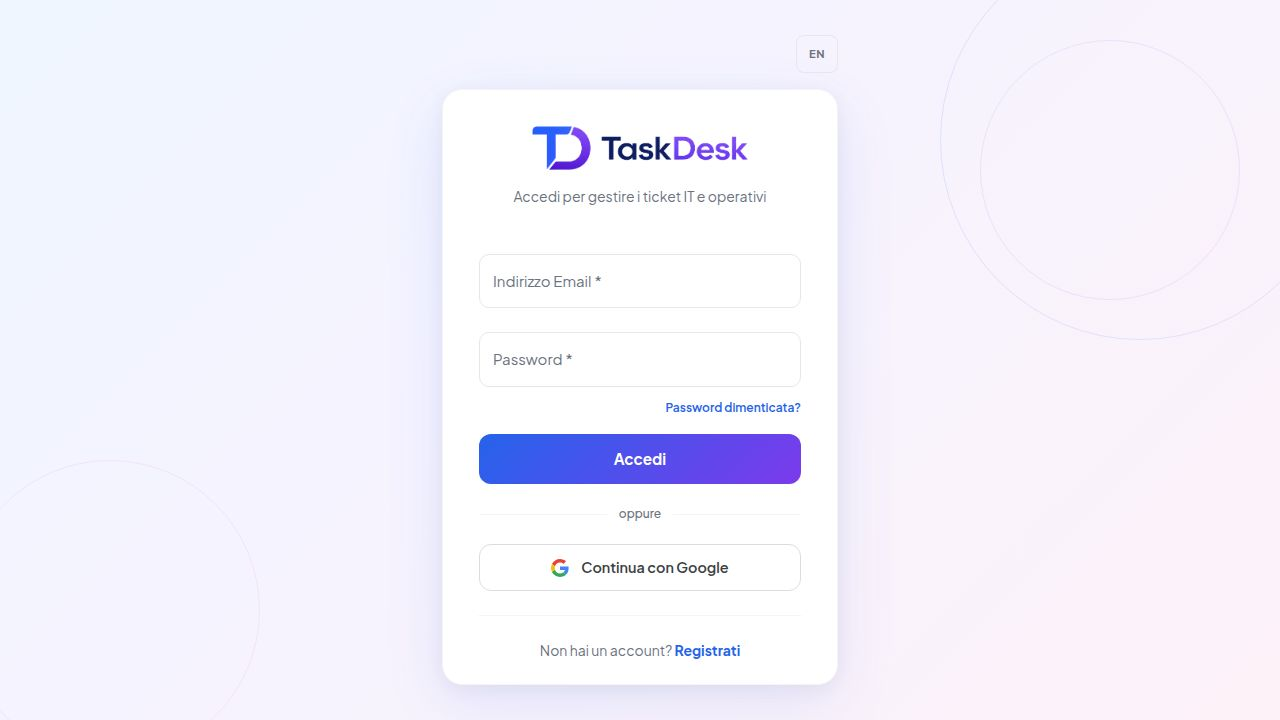
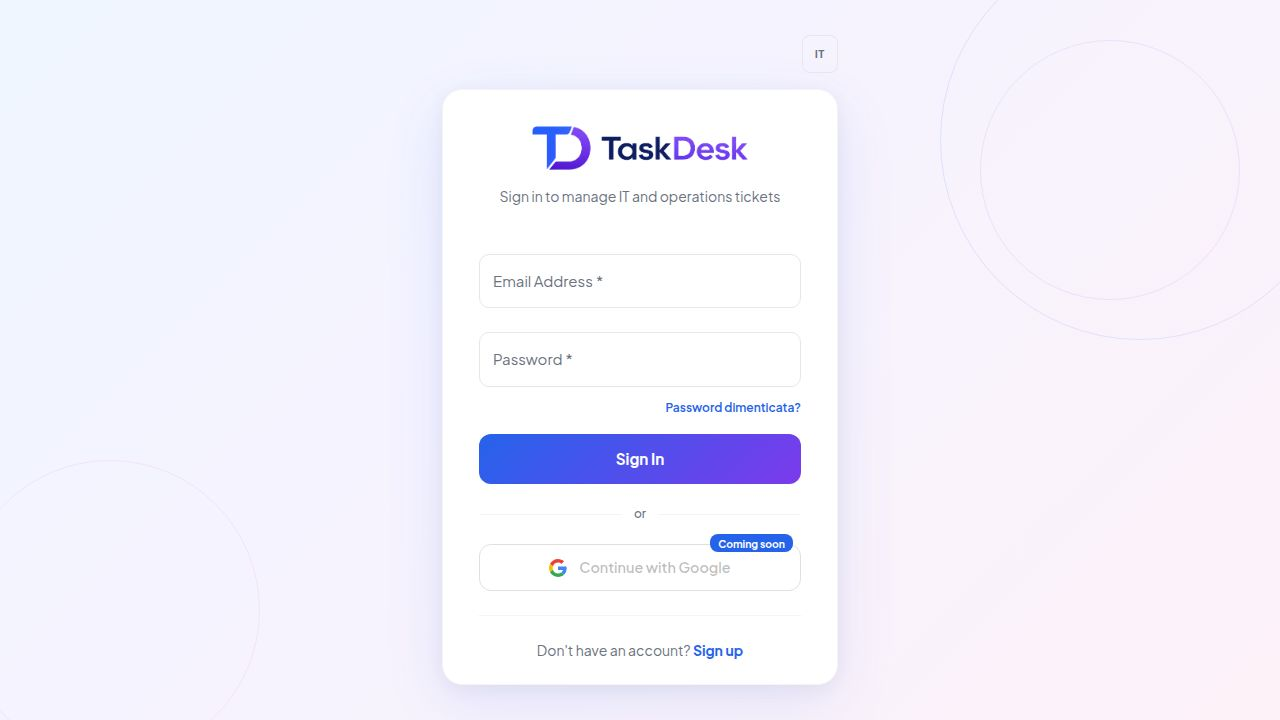
Translate UI elements and backend defaults to English
Updates translations for login, user management, ticket creation, and notifications. Modifies backend default categories, locations, and groups to English.

Replit-Commit-Author: Agent
Replit-Commit-Session-Id: 22994af6-471e-456a-80e1-41eef719cffe
Replit-Commit-Checkpoint-Type: full_checkpoint
Replit-Commit-Event-Id: 9d851790-6e3d-42e8-b1ae-4833c69661b8
Replit-Commit-Screenshot-Url: https://storage.googleapis.com/screenshot-production-us-central1/4a1856fa-6903-4237-b73c-7ebbcebc75f6/22994af6-471e-456a-80e1-41eef719cffe/jd4iU5t

diff --git a/artifacts/ticketing/src/i18n/translations.ts b/artifacts/ticketing/src/i18n/translations.ts
@@ -30,6 +30,10 @@ const it = {
     oauthDisabled: "Il tuo account è disabilitato. Contatta l'amministratore.",
     oauthServerError: 'Errore del server. Riprova più tardi.',
     oauthGenericError: "Errore durante l'autenticazione Google.",
+    or: 'oppure',
+    continueWithGoogle: 'Continua con Google',
+    registerWithGoogle: 'Registrati con Google',
+    comingSoon: 'Prossimamente',
   },
   nav: {
     dashboard: 'Dashboard',
@@ -143,6 +147,8 @@ const it = {
     attach: 'Allega file',
     mentionHint: 'menziona un collega',
     ticketHint: 'collega un ticket',
+    mentionAtName: '@Nome',
+    mentionAtGroup: '@Gruppo',
     mentionDropdownTitle: '@ Menziona utente o gruppo',
     groupLabel: 'Gruppo',
     ticketDropdownTitle: '# Riferimento ticket',
@@ -163,6 +169,9 @@ const it = {
     resourcePlaceholder: 'Es: stampante reception, PC banco cassa...',
     priorityField: 'Priorità',
     assignField: 'Assegna a',
+    assignUser: 'Utente',
+    assignGroup: 'Gruppo',
+    noLocation: '— Nessuna sede —',
     unassigned: 'Non assegnato',
     cancel: 'Annulla',
     create: 'Crea Ticket',
@@ -283,6 +292,10 @@ const it = {
     upgradeCta: 'Esegui upgrade',
     seatsAlmostFull: 'Quasi al limite',
     seatsFull: 'Posti esauriti',
+    activeUser: 'utente attivo',
+    activeUsers: 'utenti attivi',
+    totalUsers: 'totali',
+    seatsAvailableLabel: 'disponibili',
     deleteError: "Errore durante l'eliminazione",
   },
   settings: {
@@ -303,6 +316,8 @@ const it = {
     passwordHint: 'Minimo 6 caratteri',
     passwordMismatch: 'Le password non coincidono',
     changePasswordBtn: 'Cambia password',
+    clickIconToChangePhoto: 'Clicca sull\'icona per cambiare la foto',
+    removePhoto: 'Rimuovi foto',
     manageLocations: 'Gestione Sedi',
     locationsNote: 'Le sedi qui definite saranno disponibili come opzioni nel form di apertura ticket.',
     manageCategories: 'Gestione Categorie',
@@ -438,6 +453,10 @@ const en: typeof it = {
     oauthDisabled: 'Your account is disabled. Contact your administrator.',
     oauthServerError: 'Server error. Please try again later.',
     oauthGenericError: 'Google authentication error.',
+    or: 'or',
+    continueWithGoogle: 'Continue with Google',
+    registerWithGoogle: 'Sign up with Google',
+    comingSoon: 'Coming soon',
   },
   nav: {
     dashboard: 'Dashboard',
@@ -551,6 +570,8 @@ const en: typeof it = {
     attach: 'Attach file',
     mentionHint: 'mention a colleague',
     ticketHint: 'link a ticket',
+    mentionAtName: '@Name',
+    mentionAtGroup: '@Group',
     mentionDropdownTitle: '@ Mention user or group',
     groupLabel: 'Group',
     ticketDropdownTitle: '# Ticket reference',
@@ -571,6 +592,9 @@ const en: typeof it = {
     resourcePlaceholder: 'E.g.: reception printer, cash register PC...',
     priorityField: 'Priority',
     assignField: 'Assign to',
+    assignUser: 'User',
+    assignGroup: 'Group',
+    noLocation: '— No location —',
     unassigned: 'Unassigned',
     cancel: 'Cancel',
     create: 'Create Ticket',
@@ -687,6 +711,10 @@ const en: typeof it = {
     errorSaving: 'An error occurred while saving. Please try again.',
     errorSeatLimit: 'You have reached your plan\'s seat limit. Upgrade to add more users.',
     seatsUsedLabel: 'seats used',
+    activeUser: 'active user',
+    activeUsers: 'active users',
+    totalUsers: 'total',
+    seatsAvailableLabel: 'available',
     seatsUnlimited: 'Unlimited seats',
     upgradeCta: 'Upgrade plan',
     seatsAlmostFull: 'Almost full',
@@ -711,6 +739,8 @@ const en: typeof it = {
     passwordHint: 'At least 6 characters',
     passwordMismatch: 'Passwords do not match',
     changePasswordBtn: 'Change password',
+    clickIconToChangePhoto: 'Click the icon to change the photo',
+    removePhoto: 'Remove photo',
     manageLocations: 'Manage Locations',
     locationsNote: 'Locations defined here will be available as options in the ticket creation form.',
     manageCategories: 'Manage Categories',

diff --git a/artifacts/ticketing/src/pages/Login.tsx b/artifacts/ticketing/src/pages/Login.tsx
@@ -192,20 +192,20 @@ export default function Login() {
                 </Button>
                 <Box sx={{ display: 'flex', alignItems: 'center', gap: 1.5, my: 2.5 }}>
                   <Box sx={{ flex: 1, height: '1px', bgcolor: 'divider' }} />
-                  <Typography variant="caption" color="text.secondary">oppure</Typography>
+                  <Typography variant="caption" color="text.secondary">{t.login.or}</Typography>
                   <Box sx={{ flex: 1, height: '1px', bgcolor: 'divider' }} />
                 </Box>
-                <Tooltip title="Accesso con Google non ancora disponibile" arrow placement="top">
+                <Tooltip title={t.login.continueWithGoogle} arrow placement="top">
                   <Box sx={{ position: 'relative', display: 'block' }}>
                     <Button
                       fullWidth variant="outlined" disabled
                       sx={{ py: 1.2, borderRadius: '12px', fontWeight: 600, fontSize: '0.9rem', gap: 1.5 }}
                     >
                       <GoogleLogo />
-                      Continua con Google
+                      {t.login.continueWithGoogle}
                     </Button>
                     <Chip
-                      label="Prossimamente"
+                      label={t.login.comingSoon}
                       size="small"
                       sx={{ position: 'absolute', top: -10, right: 8, fontSize: '0.65rem', height: 18, bgcolor: 'primary.main', color: 'primary.contrastText', fontWeight: 700, pointerEvents: 'none' }}
                     />
@@ -253,20 +253,20 @@ export default function Login() {
                 </Button>
                 <Box sx={{ display: 'flex', alignItems: 'center', gap: 1.5, my: 2.5 }}>
                   <Box sx={{ flex: 1, height: '1px', bgcolor: 'divider' }} />
-                  <Typography variant="caption" color="text.secondary">oppure</Typography>
+                  <Typography variant="caption" color="text.secondary">{t.login.or}</Typography>
                   <Box sx={{ flex: 1, height: '1px', bgcolor: 'divider' }} />
                 </Box>
-                <Tooltip title="Registrazione con Google non ancora disponibile" arrow placement="top">
+                <Tooltip title={t.login.registerWithGoogle} arrow placement="top">
                   <Box sx={{ position: 'relative', display: 'block' }}>
                     <Button
                       fullWidth variant="outlined" disabled
                       sx={{ py: 1.2, borderRadius: '12px', fontWeight: 600, fontSize: '0.9rem', gap: 1.5 }}
                     >
                       <GoogleLogo />
-                      Registrati con Google
+                      {t.login.registerWithGoogle}
                     </Button>
                     <Chip
-                      label="Prossimamente"
+                      label={t.login.comingSoon}
                       size="small"
                       sx={{ position: 'absolute', top: -10, right: 8, fontSize: '0.65rem', height: 18, bgcolor: 'primary.main', color: 'primary.contrastText', fontWeight: 700, pointerEvents: 'none' }}
                     />

diff --git a/artifacts/ticketing/src/pages/NewTicket.tsx b/artifacts/ticketing/src/pages/NewTicket.tsx
@@ -147,7 +147,7 @@ export default function NewTicket() {
                     value={formData.location}
                     onChange={e => setFormData({ ...formData, location: e.target.value })}
                   >
-                    <MenuItem value=""><em>— Nessuna sede —</em></MenuItem>
+                    <MenuItem value=""><em>{t.newTicket.noLocation}</em></MenuItem>
                     {locations.map(l => <MenuItem key={l} value={l}>{l}</MenuItem>)}
                   </TextField>
                 </Grid>
@@ -191,15 +191,15 @@ export default function NewTicket() {
                       onChange={(_, v) => { if (v) setAssignMode(v); }}
                       size="small"
                     >
-                      <ToggleButton value="user"><Person sx={{ mr: 0.5 }} fontSize="small" />Utente</ToggleButton>
-                      <ToggleButton value="group"><Group sx={{ mr: 0.5 }} fontSize="small" />Gruppo</ToggleButton>
+                      <ToggleButton value="user"><Person sx={{ mr: 0.5 }} fontSize="small" />{t.newTicket.assignUser}</ToggleButton>
+                      <ToggleButton value="group"><Group sx={{ mr: 0.5 }} fontSize="small" />{t.newTicket.assignGroup}</ToggleButton>
                     </ToggleButtonGroup>
 
                     {assignMode === 'user' ? (
                       <TextField
                         select
                         size="small"
-                        label="Utente"
+                        label={t.newTicket.assignUser}
                         value={formData.assignedTo}
                         onChange={e => setFormData({ ...formData, assignedTo: e.target.value })}
                         sx={{ minWidth: 200 }}
@@ -213,7 +213,7 @@ export default function NewTicket() {
                       <TextField
                         select
                         size="small"
-                        label="Gruppo"
+                        label={t.newTicket.assignGroup}
                         value={formData.assignedToGroup}
                         onChange={e => setFormData({ ...formData, assignedToGroup: e.target.value })}
                         sx={{ minWidth: 200 }}

diff --git a/artifacts/ticketing/src/components/Layout.tsx b/artifacts/ticketing/src/components/Layout.tsx
@@ -118,7 +118,10 @@ export default function Layout({ children, toggleTheme, mode }: LayoutProps) {
 
   const handleDrawerToggle = () => setMobileOpen(!mobileOpen);
   const handleProfileMenuOpen = (event: React.MouseEvent<HTMLElement>) => setAnchorEl(event.currentTarget);
-  const handleNotifMenuOpen = (event: React.MouseEvent<HTMLElement>) => setNotifAnchorEl(event.currentTarget);
+  const handleNotifMenuOpen = (event: React.MouseEvent<HTMLElement>) => {
+    setNotifAnchorEl(event.currentTarget);
+    if (unreadCount > 0) { markAllRead.mutate(); }
+  };
   const handleMenuClose = () => { setAnchorEl(null); setNotifAnchorEl(null); };
   const handleLogout = () => { handleMenuClose(); logout(); };
   const handleMarkAllRead = () => { markAllRead.mutate(); handleMenuClose(); };
@@ -349,6 +352,11 @@ export default function Layout({ children, toggleTheme, mode }: LayoutProps) {
                         {(t.nav.notifTypes as any)[ntype] ?? ntype}
                       </Typography>
                       <Typography variant="body2">{n.notificationText}</Typography>
+                      {n.createdAt && (
+                        <Typography variant="caption" color="text.disabled" sx={{ fontSize: '0.68rem', mt: 0.25, display: 'block' }}>
+                          {new Date(n.createdAt).toLocaleString(lang === 'en' ? 'en-US' : 'it-IT', { dateStyle: 'short', timeStyle: 'short' })}
+                        </Typography>
+                      )}
                     </Box>
                   </MenuItem>
                 );

diff --git a/artifacts/ticketing/src/pages/Users.tsx b/artifacts/ticketing/src/pages/Users.tsx
@@ -353,7 +353,7 @@ export default function Users() {
           <Box sx={{ display: 'flex', alignItems: 'center', gap: 1, flexWrap: 'wrap' }}>
             <Chip
               icon={<Group sx={{ fontSize: 14 }} />}
-              label={`${activeCount} ${activeCount === 1 ? 'utente attivo' : 'utenti attivi'} · ${users.length} totali`}
+              label={`${activeCount} ${activeCount === 1 ? ut.activeUser : ut.activeUsers} · ${users.length} ${ut.totalUsers}`}
               color="default"
               size="small"
               variant="outlined"
@@ -426,7 +426,7 @@ export default function Users() {
               {seatUsage.usedSeats} / {seatUsage.planSeats} {ut.seatsUsedLabel}
             </Typography>
             <Typography variant="caption" color="text.secondary">
-              {seatUsage.available ?? 0} disponibili
+              {seatUsage.available ?? 0} {ut.seatsAvailableLabel}
             </Typography>
           </Box>
         </Box>

diff --git a/artifacts/ticketing/src/pages/Settings.tsx b/artifacts/ticketing/src/pages/Settings.tsx
@@ -666,7 +666,7 @@ export default function Settings() {
             <Box>
               <Typography variant="body2" fontWeight={600}>{user?.name}</Typography>
               <Typography variant="caption" color="text.secondary">
-                Clicca sull'icona per cambiare la foto
+                {t.settings.clickIconToChangePhoto}
               </Typography>
               {avatarUrl && (
                 <Box mt={0.5}>
@@ -676,7 +676,7 @@ export default function Settings() {
                     sx={{ p: 0, minWidth: 0, fontSize: '0.7rem' }}
                     onClick={() => setAvatarUrl('')}
                   >
-                    Rimuovi foto
+                    {t.settings.removePhoto}
                   </Button>
                 </Box>
               )}

diff --git a/artifacts/api-server/src/lib/seed.ts b/artifacts/api-server/src/lib/seed.ts
@@ -225,8 +225,8 @@ export async function seedIfEmpty(): Promise<void> {
   if (orgId != null) {
     await db
       .insert(settingsTable)
-      .values({ key: `org_${orgId}_groups`, value: JSON.stringify(["IT Support", "Reception", "Amministrazione", "Operazioni"]) })
-      .onConflictDoUpdate({ target: settingsTable.key, set: { value: JSON.stringify(["IT Support", "Reception", "Amministrazione", "Operazioni"]) } });
+      .values({ key: `org_${orgId}_groups`, value: JSON.stringify(["IT Support", "Reception", "Administration", "Operations"]) })
+      .onConflictDoUpdate({ target: settingsTable.key, set: { value: JSON.stringify(["IT Support", "Reception", "Administration", "Operations"]) } });
   }
 
   logger.info("Seed completed successfully!");

diff --git a/artifacts/api-server/src/routes/settings.ts b/artifacts/api-server/src/routes/settings.ts
@@ -6,18 +6,18 @@ import { stripeService } from "../stripeService";
 
 const router: IRouter = Router();
 
-const DEFAULT_LOCATIONS = ["Sede principale"];
+const DEFAULT_LOCATIONS = ["Main office"];
 export const STANDARD_CATEGORIES = [
   "PC",
-  "Stampante",
-  "Internet / Rete",
+  "Printer",
+  "Internet / Network",
   "Software",
-  "Telefonia",
-  "Cassa / Gestionale",
-  "Altro",
+  "Telephony",
+  "Cash register / ERP",
+  "Other",
 ];
 const DEFAULT_CATEGORIES = STANDARD_CATEGORIES;
-const DEFAULT_GROUPS = ["IT Support", "Reception", "Amministrazione"];
+const DEFAULT_GROUPS = ["IT Support", "Reception", "Administration"];
 export { DEFAULT_LOCATIONS };
 
 function orgKey(orgId: number | null | undefined, base: string): string {

diff --git a/artifacts/ticketing/src/components/RichCommentEditor.tsx b/artifacts/ticketing/src/components/RichCommentEditor.tsx
@@ -515,7 +515,7 @@ export const RichCommentEditor = forwardRef<RichCommentEditorHandle, RichComment
           <Box sx={{ display: 'flex', alignItems: 'center', gap: 0.6 }}>
             <AlternateEmail sx={{ fontSize: 14, color: 'primary.600' }} />
             <Typography variant="caption" sx={{ color: 'primary.700', fontWeight: 600, fontSize: '0.75rem' }}>
-              @Nome
+              {tr.mentionAtName}
             </Typography>
             <Typography variant="caption" sx={{ color: 'text.secondary', fontSize: '0.72rem' }}>
               — {tr.mentionHint}
